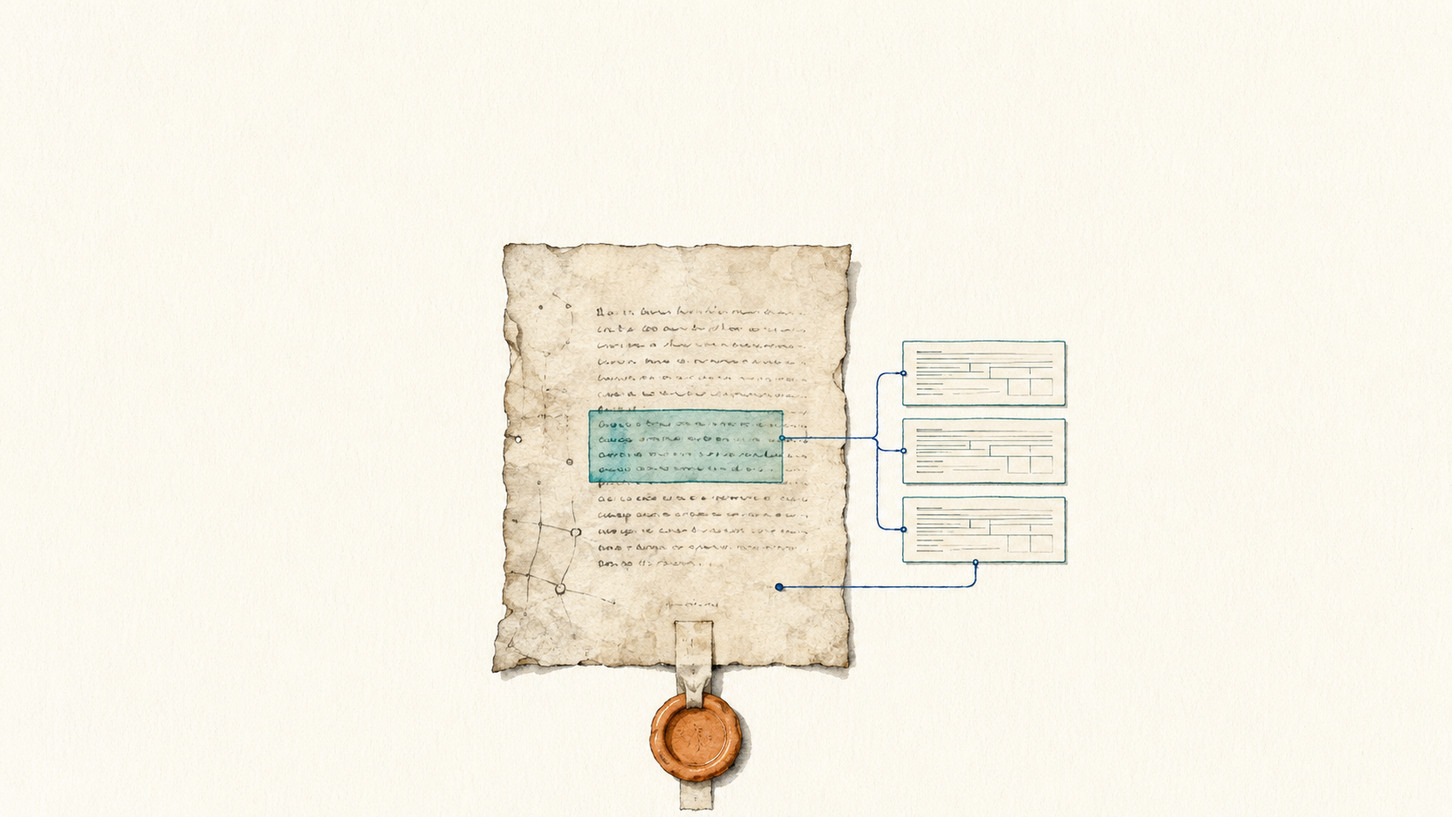
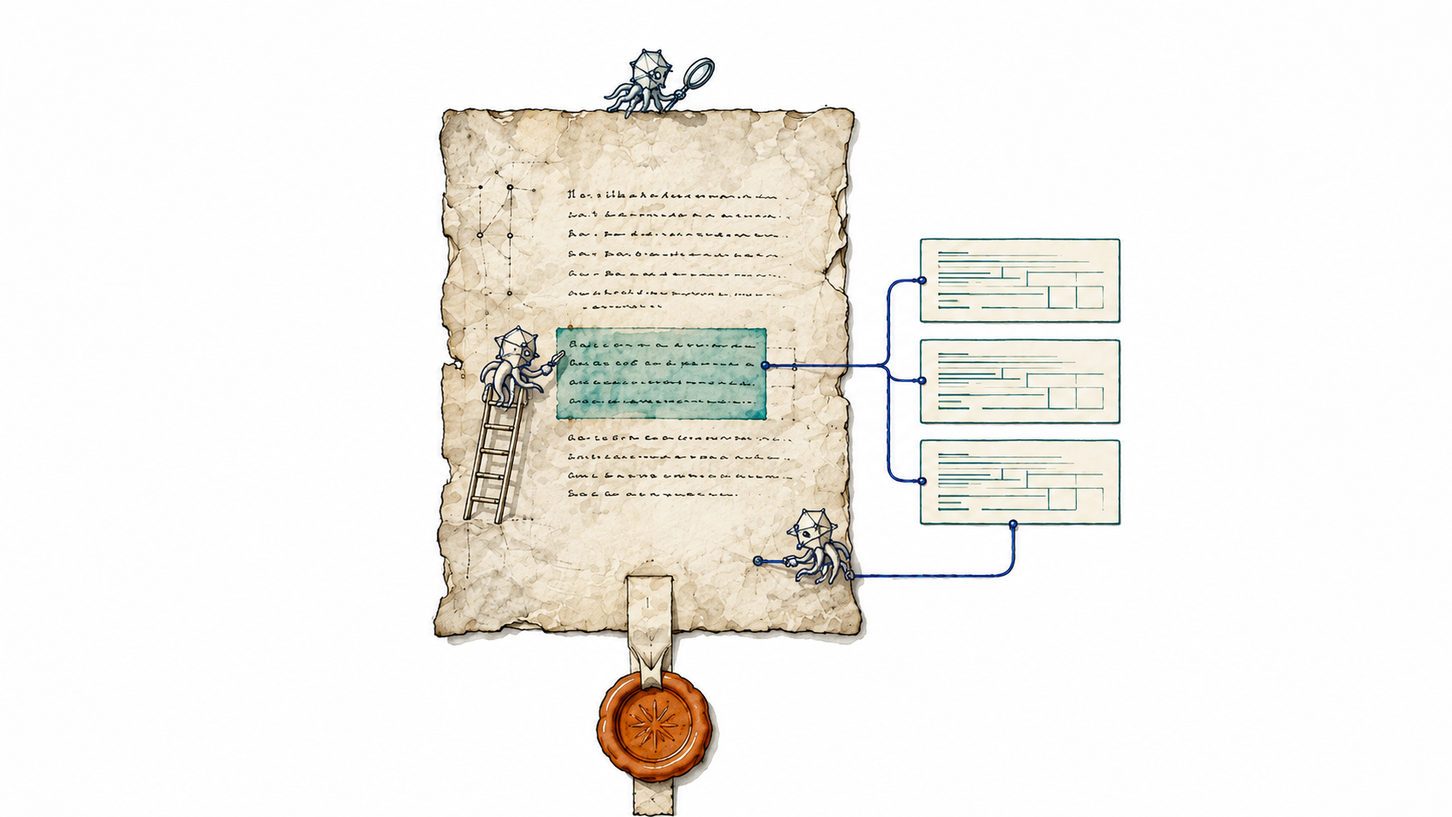
Finalize and document workshop cover series

Changed region(s): [[0.2799, 0.0616, 0.7775, 1.0]]

diff --git a/knowledge/drafts/cover-image-prompts.md b/knowledge/drafts/cover-image-prompts.md
@@ -23,8 +23,21 @@ These prompts document the selected visual direction for the Full Slide Deck and
 - Precise deep-navy ink contours in two consistent stroke weights.
 - Restrained watercolor held mainly inside designed shapes.
 - DHCraft semantic palette: violet `#8140B8` for model capability, orange `#C87000` for prompting, turquoise `#0A7E7C` for knowledge and context, blue `#5B8FC4` for agentic action, green `#7C9200` for governance and verification.
-- No text, letters, numerals, pseudo-writing, logos or watermarks.
+- No text, letters, numerals, pseudo-writing, unrelated logos or watermarks. A named tool icon may appear only where a workshop prompt explicitly requires it.
+- Historical source surfaces use sparse non-letter-like ink textures. They contain no word-shaped marks or repeated glyph sequences.
 - Avoid robots, brains, circuit-board metaphors, generic dashboards, decorative orbit lines, checkmarks, badges and meaningless network graphs.
+
+## Selection status and regeneration risks
+
+All eight covers are selected and present in the repository. The prompts below are the production contract for later regeneration. Four subjects need explicit protection against recurrent generator defaults.
+
+| Cover | Stable element | Regeneration guardrail |
+|---|---|---|
+| CLARIAH-AT | open codex carrying source, transcription and structured result | exactly three internal zones, no charts, labels or dashboard furniture |
+| HEDIT Heidelberg | manuscript tray with two fold-out Promptotyping boards | page and bookbinding geometry only, no interface panels or generic networks |
+| Uni for Life | document tray, context lens and agentic write-back | anchored document-handling arm, no body, head, floating polyhedron or character |
+| VetMed Winter School | microscopy selection and AI-assisted analysis | equine hoof lamellar tissue as the species-specific veterinary sample |
+| Fachschaft Mittelalterstudien | charter, extracted records and small Claude Code agents | current cover is a required identity reference for the agent figure |
 
 ## Full Slide Deck
 
@@ -56,10 +69,10 @@ Constraints: apply the shared production constraints; avoid musical notation, ma
 Use case: stylized-concept
 Asset type: 16:9 workshop title-slide cover
 Input images: Image 1 is the DHCraft watercolor logo, used only for palette and material character. If supplied, Image 2 is the current CLARIAH-AT cover, used as the subject and composition anchor.
-Primary request: Create one open scholarly codex that contains a complete research-data transformation. The left page holds an archival manuscript facsimile made from abstract, nonlinguistic traces. A transparent turquoise context window selects one passage. The centre resolves the passage into a clean transcription layer. The right page contains a compact structured record and a restrained evidence view for information extraction. One blue agentic path connects source, selected context, transcription and structured result, then returns to the facsimile through a quiet green verification notch.
+Primary request: Create one open scholarly codex that contains a complete research-data transformation in exactly three internal zones. The left zone holds an archival manuscript facsimile made from sparse non-letter-like ink textures. A transparent turquoise context window selects one passage. The centre zone resolves the passage into a clean transcription field made from broad blank rules. The right zone contains four unlabeled structured fields for information extraction. One blue agentic path connects source, selected context, transcription and structured result, then returns to the facsimile through a quiet green verification notch. The codex remains the only object.
 Style: archival conservation plate combined with translucent technical overlays, deep-navy ink and controlled watercolor.
 Palette: turquoise #0A7E7C and blue #5B8FC4 dominant, small orange #C87000 and green #7C9200 details.
-Constraints: apply the shared production constraints; omit charts with labels, checkmarks, topic-model diagrams and dashboard styling.
+Constraints: apply the shared production constraints; use exactly three internal zones and no more than five major shapes; omit charts, axes, legends, checkmarks, topic-model diagrams, interface cards and dashboard styling.
 ```
 
 ## HEDIT Heidelberg
@@ -68,10 +81,10 @@ Constraints: apply the shared production constraints; omit charts with labels, c
 Use case: stylized-concept
 Asset type: 16:9 workshop title-slide cover
 Input images: Image 1 is the DHCraft watercolor logo, used only for palette and material character. If supplied, Image 2 is the current HEDIT cover, used as the subject and composition anchor.
-Primary request: Create one fold-out scholarly edition workstation. A bound archival manuscript bundle rests in a precise bookbinding tray at the left. A turquoise context aperture selects one passage from the participant material. Two integrated fold-out boards extend to the right. The upper board transforms selected source fragments into a restrained extraction model. The lower board transforms the same passage into clean structural zones for a digital edition. One continuous blue agentic thread connects the source, both Promptotyping stages and a verified return to the manuscript. Use one orange removable adapter at the hinge.
+Primary request: Create one fold-out scholarly edition workstation. A bound archival manuscript bundle rests in a precise bookbinding tray at the left. A turquoise context aperture selects one passage from the participant material. Exactly two integrated paper boards extend to the right. The upper board groups four selected source fragments through simple color fields and connecting rules. The lower board arranges the same passage into four nested editorial zones. One continuous blue agentic thread connects the source, both Promptotyping stages and a verified return to the manuscript. Use one orange removable adapter at the hinge. Every component is made from paper, board, thread or bookbinding hardware.
 Style: precision bookbinding and technical product illustration, shallow axonometric view, deep-navy ink and matte watercolor.
 Palette: turquoise #0A7E7C and blue #5B8FC4 dominant, orange #C87000 and violet #8140B8 as small working accents.
-Constraints: apply the shared production constraints; avoid readable XML, generic network graphs and software dashboards.
+Constraints: apply the shared production constraints; use exactly two fold-out boards; avoid readable XML, charts, interface panels, software windows, generic network graphs and dashboard styling.
 ```
 
 ## Fachschaft Mittelalterstudien Heidelberg
@@ -79,11 +92,11 @@ Constraints: apply the shared production constraints; avoid readable XML, generi
 ```text
 Use case: stylized-concept
 Asset type: 16:9 workshop title-slide cover
-Input images: Image 1 is the DHCraft watercolor logo, used only for palette and material character. If supplied, Image 2 is the current medieval-studies cover, used as the subject and composition anchor.
-Primary request: Create one authentic medieval charter with a restrained pendent wax seal. A transparent turquoise aperture selects one precise passage from the parchment. Three small unlabeled structured record slips emerge from that passage and align along the right edge, representing handwriting recognition, structured extraction and the small digital edition. One controlled blue path connects the source passage with the three records and returns to the charter as verified write-back. Preserve natural parchment irregularity and a clear documentary silhouette.
+Input images: Image 1 is the DHCraft watercolor logo, used only for palette and material character. Image 2 is the current medieval-studies cover and is required as the identity and composition reference.
+Primary request: Create one authentic medieval charter with a restrained pendent wax seal. A transparent turquoise aperture selects one precise passage from the parchment. Three small unlabeled structured record slips emerge from that passage and align along the right edge, representing handwriting recognition, structured extraction and the small digital edition. Preserve the same small geometric Claude Code agent figure from the reference image in three purposeful poses: inspecting the charter with a magnifier, selecting the passage from a small ladder and managing the verified return at the lower edge. One controlled blue path connects the source passage with the three records and returns to the charter as verified write-back. Preserve natural parchment irregularity and a clear documentary silhouette.
 Style: scholarly facsimile and archival conservation drawing, precise deep-navy contours, restrained mineral watercolor.
 Palette: turquoise #0A7E7C and blue #5B8FC4, orange #C87000 for the wax seal, one small green #7C9200 verification detail.
-Constraints: apply the shared production constraints; omit heraldry, XML brackets and decorative medieval motifs.
+Constraints: apply the shared production constraints; preserve the supplied Claude Code agent figure consistently; keep all three figures small and subordinate to the charter; omit heraldry, XML brackets, alternative robot faces and decorative medieval motifs.
 ```
 
 ## GDA Göttingen
@@ -104,10 +117,10 @@ Constraints: apply the shared production constraints; avoid literal computer plu
 Use case: stylized-concept
 Asset type: 16:9 workshop title-slide cover
 Input images: Image 1 is the DHCraft watercolor logo, used only for palette and material character. If supplied, Image 2 is the current Uni for Life cover, used as the subject and composition anchor.
-Primary request: Create one professional knowledge-work instrument. A structured violet document tray holds several layered source briefs. A movable turquoise context lens selects one relevant packet. A non-humanoid articulated agent tool lifts the selected packet, works on it at a restrained drafting surface and returns a corrected version into a clearly marked write-back tray. One blue path connects source knowledge, selected context, agentic action and write-back. The tool has no head, face, torso or character traits.
+Primary request: Create one professional knowledge-work instrument. A structured violet document tray holds several layered source briefs. A movable turquoise context lens selects one relevant packet. An articulated document-handling arm is anchored directly to the tray and built from three simple hinged bars. It lifts the selected packet, works on it at a restrained drafting surface and returns a corrected version into a clearly marked write-back tray. One blue path connects source knowledge, selected context, agentic action and write-back. Replace any humanoid figure from the reference with this anchored arm.
 Style: high-end editorial paper construction with mechanical precision, deep-navy ink, matte watercolor and subtle asymmetry.
 Palette: violet #8140B8 dominant, turquoise #0A7E7C and blue #5B8FC4.
-Constraints: apply the shared production constraints; avoid robots, humanoid figures, office clip art, screens and decorative cable loops.
+Constraints: apply the shared production constraints; the arm has no head, face, torso, hands, floating polyhedron or character traits; avoid robots, office clip art, screens and decorative cable loops.
 ```
 
 ## VetMed Winter School
@@ -116,7 +129,7 @@ Constraints: apply the shared production constraints; avoid robots, humanoid fig
 Use case: scientific-educational
 Asset type: 16:9 workshop title-slide cover
 Input images: Image 1 is the DHCraft watercolor logo, used only for palette and material character. If supplied, Image 2 is the current VetMed cover, used as the subject and composition anchor.
-Primary request: Create one scientifically plausible veterinary histopathology specimen from animal tissue, rendered as a large cellular cross-section. A transparent turquoise microscopy region of interest selects one subtle tissue pattern. Inside it, a precise blue segmentation contour shows how AI-assisted image analysis can identify and compare relevant structures. Beneath the specimen, integrate a restrained evidence path from whole sample to selected context, analytical model and expert verification, returning to the specimen. Use the five semantic colors across anatomical and analytical layers without turning them into decorative rainbow bands.
+Primary request: Create one scientifically plausible histological cross-section of equine hoof lamellar tissue, showing the characteristic interlocking epidermal and dermal lamellae. A transparent turquoise microscopy region of interest selects one subtle tissue pattern. Inside it, a precise blue segmentation contour shows how AI-assisted image analysis can identify and compare relevant structures. Beneath the specimen, integrate a restrained evidence path from whole sample to selected context, analytical model and veterinary expert verification, returning to the specimen. Use the five semantic colors across anatomical and analytical layers without turning them into decorative rainbow bands.
 Style: museum-quality veterinary scientific plate, deep-navy ink and translucent watercolor, precise and research-oriented.
 Palette: violet #8140B8, orange #C87000, turquoise #0A7E7C, blue #5B8FC4 and green #7C9200.
 Constraints: apply the shared production constraints; avoid human anatomy, mascots, paws, medical shields, checkmarks and generic AI symbols.

diff --git a/knowledge/design.md b/knowledge/design.md
@@ -32,13 +32,27 @@ The guiding motif is the path from source to verified artifact, drawn as source,
 
 - **Ground**: paper white as one consistent page ground, near-black typography, generous whitespace; light theme only (operator decision 2026-08-20).
 - **Accent**: turquoise `#0A7E7C` as the primary accent for links, active states and motif highlights; the motif line art stays turquoise-only.
-- **Identity palette**: four accents derived from the watercolor logo, orange `#C87000`, blue `#5B8FC4`, green `#7C9200`, violet `#8140B8`. Their single application is the five module marks (violet 01, orange 02, turquoise 03, blue 04, green 05); everything else stays monochrome plus turquoise, so the footer logo reads as the source of the palette. Text-carrying colors must pass WCAG AA, pure marks at least 3:1.
+- **Identity palette**: four accents derived from the watercolor logo, orange `#C87000`, blue `#5B8FC4`, green `#7C9200`, violet `#8140B8`. The interface applies them to the five module marks (violet 01, orange 02, turquoise 03, blue 04, green 05). Cover illustrations may use the same colors semantically inside their depicted objects. Text-carrying colors must pass WCAG AA, pure marks at least 3:1.
 - **Brand**: DHCraft watercolor logo (standard variant from `DigitalHumanitiesCraft/brand-assets`), set sparingly.
 - **Typography**: Space Grotesk throughout with system fallback (operator decision 2026-08-20); IBM Plex Mono for prompts and code.
 - **Hierarchy**: at most two text levels per section, one heading and body; no stacked eyebrow-plus-heading labels; the motif stands without a caption; the hero is title, one sentence and one link.
-- **Imagery**: only the covers (16:9 PNG, minimum 1280 px wide, upper third free of content, no text in the image, at `docs/assets/covers/<id>.png`) and the motif line art; no stock imagery, no generic AI illustrations.
+- **Imagery**: only the covers (16:9 PNG, minimum 1280 px wide, upper third free of content, at `docs/assets/covers/<id>.png`) and the motif line art; no stock imagery. Future regeneration excludes readable text and generic AI illustration defaults.
 - **Cards**: workshop entries as horizontal cards with cover, date, event, audience, the module badges of the modules the instance uses, and the links that exist, in chronological order; missing artifacts appear as quiet "in preparation" labels, never as dead links.
 - **Chrome**: header brand, top navigation and footer are a single binding template; the favicon set in `docs/assets/favicon/` is committed and every page links it. Page chrome is not re-invented per page.
+
+## Cover series
+
+The operator selected the Full Slide Deck cover and all seven workshop covers on 2026-08-20. The repository holds `full.png` at 1664 by 936 pixels and each workshop cover at 1672 by 941 pixels. Every file exceeds the minimum width and conforms to the 16:9 cover slot.
+
+The series uses one domain-bearing object per cover. Shared concepts are encoded through the object rather than added as a surrounding infographic.
+
+- Maintained documents, archival bundles and scientific specimens carry knowledge.
+- A turquoise aperture identifies the working context.
+- A blue line or articulated tool carries agentic action and write-back.
+- A green registration detail carries verification or governance where the subject requires it.
+- The workshop domain determines the main object, including opera archive, scholarly codex, edition workstation, medieval charter, research-software workbench, professional document instrument and veterinary tissue specimen.
+
+The current PNG files are the selected publication assets. Some retain incidental generator defaults such as pseudo-lettering, chart furniture or character-like agent forms. These details do not define the system. `knowledge/drafts/cover-image-prompts.md` is the production contract for later regeneration and constrains them explicitly. The medieval-studies cover is the single approved tool-identity exception. It uses the supplied small Claude Code agent figure because the workshop itself is conducted in Claude Code; the current cover remains the required identity reference.
 
 ## Iteration status
 

diff --git a/knowledge/journal.md b/knowledge/journal.md
@@ -68,3 +68,15 @@ The second decision fixes the naming. The corpus is maintained once, as the Full
 The third decision closes the platform design. Iteration 4 is approved and in force, its page chrome and its favicon set are committed, and the requirement of a bilingual page toggle is dropped. Language is handled per module and per instance, so a page carries the language of the material it presents. The landing page with its horizontal instance cards and module badges, the instance subpages and the preparation page are built in parallel to this entry.
 
 **Outcome.** The knowledge base states the current reality, the glossary in `terms.md` is filled from the corpus, and the naming rule together with the register rule is written into `CLAUDE.md`, so later sessions inherit both.
+
+### 2026-08-20, Cover series selection and production contract
+
+**Goal.** Give the Full Slide Deck and each upcoming workshop a recognizable cover that carries Knowledge, Context and Agentic Engineering through its own domain.
+
+**Course.** The first generation round used a horizontal workflow diagram. It established paper ground, navy linework and watercolor accents, but its repeated stations read as an infographic and did not distinguish the workshop domains strongly enough. A second round moved to one integrated object per cover. Knowledge became archival or professional source material, the working context became a turquoise aperture, agentic action became a blue path or tool, and verification appeared as a restrained green registration detail. Domain objects then carried the difference between the instances, including an opera archive for KUG M3GIM, an edition codex for CLARIAH-AT, a fold-out edition workstation for HEDIT, a charter for the medieval-studies workshop, a modular research-software workbench for Göttingen, a document-handling instrument for Uni for Life and a veterinary microscopy specimen for the VetMed Winter School.
+
+The operator selected all seven workshop images and retained the existing Full Slide Deck cover. The Full cover is stored at 1664 by 936 pixels; the workshop covers are stored at 1672 by 941 pixels. All eight files exceed the required width and are registered under their stable ids. The medieval-studies cover went through two replacements. The selected version contains three small Claude Code agent figures that inspect the charter, select a passage and manage write-back. This tool-specific figure is approved because Claude Code is the workshop environment.
+
+The selected PNG files remain publication assets even where the generator introduced incidental pseudo-lettering, chart furniture or character-like elements. Those details are recorded as generation risks. The production prompts now constrain CLARIAH-AT to three codex zones, HEDIT to paper and bookbinding geometry, Uni for Life to a non-humanoid document-handling arm and VetMed to equine hoof lamellar tissue. The medieval prompt requires the selected cover as an identity reference for its agent figure.
+
+**Outcome.** `docs/assets/covers/` contains the complete eight-image series, `docs/data/workshops.json` resolves every cover, the workshop profiles record the assets as present, and `knowledge/drafts/cover-image-prompts.md` holds the reproducible prompt contract for all images.

diff --git a/workshops/2026-11-30-vetmed-winter-school/profile.md b/workshops/2026-11-30-vetmed-winter-school/profile.md
@@ -21,7 +21,7 @@ related: [../../knowledge/project.md, ../../knowledge/drafts/module-map.md]
 
 ## Profile
 
-This instance is the five-day block week registered for 2026-11-30 to 2026-12-04 at the Veterinärmedizinische Universität Wien, taught in German for administration and research staff. The register describes it as a five-day extended derivation of the full corpus and as a follow-up format to the VetMedAI programme, whose first workshop was held in German at the same institution as staff AI-competence building. It is therefore the fullest derivation of the full corpus among the registered instances, the one profile with room for every module and for hands-on work in each of them. The display title *VetMed Winter School* is provisional and stands until the operator supplies the final one, as recorded in `knowledge/journal.md`. The register in `docs/data/workshops.json` holds the entry and currently carries no deck, script or cover. This document is a thin profile, so it states the planned shape of the instance rather than a settled content state.
+This instance is the five-day block week registered for 2026-11-30 to 2026-12-04 at the Veterinärmedizinische Universität Wien, taught in German for administration and research staff. The register describes it as a five-day extended derivation of the full corpus and as a follow-up format to the VetMedAI programme, whose first workshop was held in German at the same institution as staff AI-competence building. It is therefore the fullest derivation of the full corpus among the registered instances, the one profile with room for every module and for hands-on work in each of them. The display title *VetMed Winter School* is provisional and stands until the operator supplies the final one, as recorded in `knowledge/journal.md`. The register in `docs/data/workshops.json` holds the entry with its cover and currently carries no deck or script surface. This profile states the planned shape of the instance; a settled content state will exist once the slides and notes for the week are written.
 
 ## Planned module selection
 
@@ -44,7 +44,7 @@ The predecessor instance of the VetMedAI series is the workshop *Grundlagen Gene
 | Live deck | to be linked from `docs/data/workshops.json`, register field currently null | in preparation |
 | Workshop script | this folder | in preparation |
 | PPTX export per taught state | this folder | in preparation |
-| Cover | `docs/assets/covers/2026-11-30-vetmed-winter-school.png` | in preparation |
+| Cover | `docs/assets/covers/2026-11-30-vetmed-winter-school.png` | present |
 
 ## Delivery notes
 

diff --git a/workshops/2026-10-15-gda-goettingen/profile.md b/workshops/2026-10-15-gda-goettingen/profile.md
@@ -65,7 +65,7 @@ Rights state. The partner institute must clear the demo state for public display
 | Learning objectives | four, in finished prose | complete |
 | Block raster for the morning | arrival, introduction, demo, break, hands-on, discussion | complete at block level, carries no time values |
 | Demo script | two parts with a four-step fallback chain, meaning live demonstration, prepared screencast, screenshot sequence in the deck, and a walkable end state through git log and diffs | drafted |
-| Cover | `docs/assets/covers/2026-10-15-gda-goettingen.png` | absent |
+| Cover | `docs/assets/covers/2026-10-15-gda-goettingen.png` | present |
 
 Each fundamentals slide of the written texts carries a provenance field pointing at the slide of the Full Slide Deck it adapts, which is the delta model applied cleanly. Two of the slides are already phrased occasion-free and are candidates for intake into the full corpus rather than into this profile alone, namely the agent-transformation slide and the artefact-checking slide.
 

diff --git a/workshops/2026-10-08-fachschaft-mittelalterstudien-heidelberg/profile.md b/workshops/2026-10-08-fachschaft-mittelalterstudien-heidelberg/profile.md
@@ -65,7 +65,7 @@ The licence file of the source corpus names CC BY 4.0 with copyright at the Univ
 | Drive folder and participant data folder | operator's Drive | exist, URLs deliberately not reproduced here, publication blocked by the rights gate |
 | Mini repository with instruction layer and `knowledge/` folder | not created | planned |
 | Term apparatus | drawn from the glossary of the full corpus and the Promptotyping paper definitions | available |
-| Cover | `docs/assets/covers/2026-10-08-fachschaft-mittelalterstudien-heidelberg.png` | absent |
+| Cover | `docs/assets/covers/2026-10-08-fachschaft-mittelalterstudien-heidelberg.png` | present |
 
 ## Open points
 

diff --git a/workshops/2026-10-05-hedit-heidelberg/profile.md b/workshops/2026-10-05-hedit-heidelberg/profile.md
@@ -69,7 +69,7 @@ Rights state. The rights-restricted material of the Zentralbibliothek Zürich is
 | Programme, learning objectives and prerequisites | operator's research vault | complete, the substance of this profile |
 | Drive folder | operator's Drive | exists, URL deliberately not reproduced here |
 | Demo material | worked Zweig example plus synthetic teiCrafter fixtures | decided 2026-08-05 |
-| Cover | `docs/assets/covers/2026-10-05-hedit-heidelberg.png` | absent |
+| Cover | `docs/assets/covers/2026-10-05-hedit-heidelberg.png` | present |
 
 ## Open points
 

diff --git a/workshops/2026-09-16-kug-m3gim/profile.md b/workshops/2026-09-16-kug-m3gim/profile.md
@@ -75,7 +75,7 @@ Rights state. The material is archive holdings of a partner institution and reac
 | Lecture Notes (KUG Summer School 2026) | this folder | in preparation |
 | PPTX export per taught state | this folder | in preparation |
 | Map demo | external Teaching repo, `workshops/m3gim-map-demo` | working, maintained outside this repo |
-| Cover | `docs/assets/covers/2026-09-16-kug-m3gim.png` | in preparation |
+| Cover | `docs/assets/covers/2026-09-16-kug-m3gim.png` | present |
 
 ## Open points
 

diff --git a/workshops/2026-11-09-ufl/profile.md b/workshops/2026-11-09-ufl/profile.md
@@ -65,7 +65,7 @@ Rights state. A fictitious scenario with synthetic Office files carries no third
 | Lecture Notes (Uni for Life 2026) | this folder | in preparation |
 | PPTX export per taught state | this folder | in preparation |
 | Example data (IBW scenario) | operator's Drive | fixed 2026-08-05, not held in this repo |
-| Cover | `docs/assets/covers/2026-11-09-ufl.png` | in preparation |
+| Cover | `docs/assets/covers/2026-11-09-ufl.png` | present |
 
 ## Open points
 
